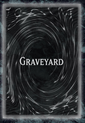
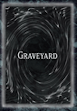
Resizes decks and discards

diff --git a/munchkinonline/src/game/classes/deck.js b/munchkinonline/src/game/classes/deck.js
@@ -3,7 +3,7 @@ export default class Deck {
         this.cardType = cardType
         
         this.render = (x, y, sprite, cW, cH) => {
-            let deck = scene.add.image(x+cW/2, y+cH/2, sprite).setScale(0.7, 0.7).setInteractive({ cursor: 'pointer' })
+            let deck = scene.add.image(x+cW/2, y+cH/2, sprite).setInteractive({ cursor: 'pointer' })
 
             deck.on('pointerup', () => {
                 if (scene.gameState.isYourTurn() && !scene.gameState.cardDrawn) {
